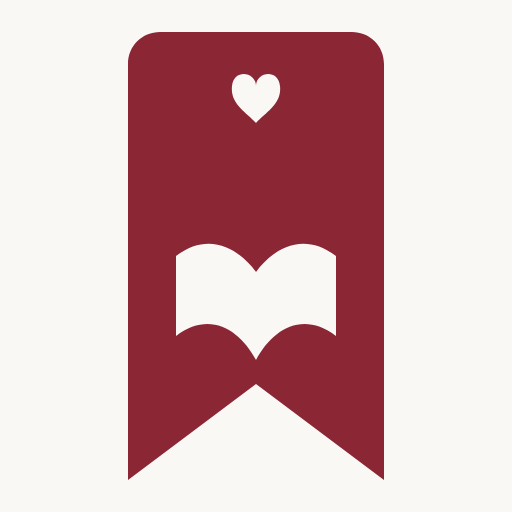
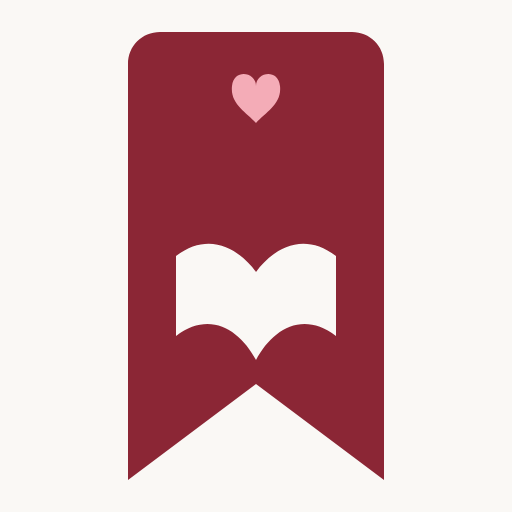
fix(netlify): disable build command in netlify.toml for prebuilt static deployment

Changed region(s): [[0.4375, 0.125, 0.5625, 0.25]]

diff --git a/index.src.html b/index.src.html
@@ -5723,6 +5723,7 @@ svg.constellation-lines { position: absolute; top: 0; left: 0; width: 100%; heig
       --text-dark: #3e2723;
       --burgundy: #8B2635;
       --logo-bg: #FAF8F5;
+      --heart-pink: #F4ACB7;
     }
 
     .splash-container {
@@ -5796,6 +5797,10 @@ svg.constellation-lines { position: absolute; top: 0; left: 0; width: 100%; heig
     .animate-fill .cutout {
       fill: var(--logo-bg);
       stroke: transparent;
+    }
+
+    .animate-fill .cutout.heart-cutout {
+      fill: var(--heart-pink);
     }
 
     /* Scale the logo down slightly for weight and change to a soft drop shadow */
@@ -5897,12 +5902,12 @@ svg.constellation-lines { position: absolute; top: 0; left: 0; width: 100%; heig
     .word-heart-tag .heart {
       font-size: 20px;
       line-height: 1;
-      color: var(--gold);
+      color: var(--heart-pink);
       opacity: 0;
       transform: scale(0.3);
       transition: opacity 0.6s ease-out, transform 0.6s cubic-bezier(0.34, 1.56, 0.64, 1);
       transition-delay: 0.82s;
-      filter: drop-shadow(0 0 5px rgba(197, 155, 39, 0.6));
+      filter: drop-shadow(0 0 6px rgba(244, 172, 183, 0.7));
     }
 
     .animate-text .word-heart-tag .heart {
@@ -5912,8 +5917,8 @@ svg.constellation-lines { position: absolute; top: 0; left: 0; width: 100%; heig
     }
 
     @keyframes heartGlow {
-      0% { transform: scale(1); filter: drop-shadow(0 0 4px rgba(197, 155, 39, 0.4)); }
-      100% { transform: scale(1.16); filter: drop-shadow(0 0 8px rgba(230, 184, 59, 0.8)); }
+      0% { transform: scale(1); filter: drop-shadow(0 0 4px rgba(244, 172, 183, 0.4)); }
+      100% { transform: scale(1.16); filter: drop-shadow(0 0 9px rgba(244, 172, 183, 0.95)); }
     }
 
     /* Subtitle branding */
@@ -6030,6 +6035,12 @@ svg.constellation-lines { position: absolute; top: 0; left: 0; width: 100%; heig
         transition: none !important;
         transition-delay: 0s !important;
       }
+      .splash-static .cutout.heart-cutout {
+        fill: var(--heart-pink) !important;
+      }
+      .splash-static .word-heart-tag .heart {
+        color: var(--heart-pink) !important;
+      }
       .splash-static-loader {
         display: none;
         align-items: center;
@@ -6060,8 +6071,8 @@ svg.constellation-lines { position: absolute; top: 0; left: 0; width: 100%; heig
     <path class="bookmark-fill" d="M 128 64 C 128 46 142 32 160 32 L 352 32 C 370 32 384 46 384 64 L 384 480 L 256 384 L 128 480 Z" />
     <path class="logo-outline trace-only" d="M 256 32 L 160 32 C 142 32 128 46 128 64 L 128 480 L 256 384" />
     <path class="logo-outline trace-only" d="M 256 384 L 384 480 L 384 64 C 384 46 370 32 352 32 L 256 32" />
-    <!-- Heart Punch cutout -->
-    <path class="logo-outline cutout" d="M 256 86 C 256 72, 234 68, 232 86 C 230 104, 246 112, 256 123 C 266 112, 282 104, 280 86 C 278 68, 256 72, 256 86 Z" />
+    <!-- Heart Punch cutout (Pastel Pink) -->
+    <path class="logo-outline cutout heart-cutout" d="M 256 86 C 256 72, 234 68, 232 86 C 230 104, 246 112, 256 123 C 266 112, 282 104, 280 86 C 278 68, 256 72, 256 86 Z" />
     <!-- Open Book cutout -->
     <path class="logo-outline cutout" transform="translate(0, -47)" d="M 176 256 C 210 230 240 250 256 272 C 272 250 302 230 336 256 L 336 336 C 302 310 272 330 256 360 C 240 330 210 310 176 336 Z" />
   </svg>
@@ -6107,7 +6118,7 @@ svg.constellation-lines { position: absolute; top: 0; left: 0; width: 100%; heig
     <a href="javascript:void(0)" class="landing-logo">
       <svg viewBox="128 32 256 448" class="landing-bookmark-icon" width="30" height="42" fill="none" xmlns="http://www.w3.org/2000/svg">
         <path d="M 128 64 C 128 46 142 32 160 32 L 352 32 C 370 32 384 46 384 64 L 384 480 L 256 384 L 128 480 Z" fill="#8B2635" />
-        <path d="M 256 86 C 256 72, 234 68, 232 86 C 230 104, 246 112, 256 123 C 266 112, 282 104, 280 86 C 278 68, 256 72, 256 86 Z" fill="#FAF8F5" />
+        <path d="M 256 86 C 256 72, 234 68, 232 86 C 230 104, 246 112, 256 123 C 266 112, 282 104, 280 86 C 278 68, 256 72, 256 86 Z" fill="#F4ACB7" />
         <path transform="translate(0, -47)" d="M 176 256 C 210 230 240 250 256 272 C 272 250 302 230 336 256 L 336 336 C 302 310 272 330 256 360 C 240 330 210 310 176 336 Z" fill="#FAF8F5" />
       </svg>
       <span>Shelf <em>Life</em></span>
@@ -6127,7 +6138,7 @@ svg.constellation-lines { position: absolute; top: 0; left: 0; width: 100%; heig
       </div>
 
       <h1 class="landing-hook-title" style="font-family:'Vollkorn',Georgia,serif; font-size:clamp(32px, 3.8vw, 48px); line-height:1.14;">
-        Note to shelf:<br><span style="color:var(--love,#8B2635); font-style:italic;">every story you loved deserves a home.</span>
+        Shelf life:<br><span style="color:var(--love,#8B2635); font-style:italic;">every story you loved deserves a home.</span>
       </h1>
 
       <p class="landing-prose-line" style="font-family:'Outfit',-apple-system,sans-serif; font-size:16px; line-height:1.65; color:rgba(43,27,17,0.82); max-width:520px;">
@@ -6278,7 +6289,7 @@ svg.constellation-lines { position: absolute; top: 0; left: 0; width: 100%; heig
         <div class="hero-marginalia-slip" id="heroMarginaliaSlip">
           <div class="marginalia-clip">📎</div>
           <div class="marginalia-header">
-            <span class="marginalia-tag">NOTE TO SHELF</span>
+            <span class="marginalia-tag">SHELF LIFE NOTE</span>
             <span class="marginalia-date">JAN 14</span>
           </div>
           <p class="marginalia-body">“Finished at 2:14 AM. Keep this one on the top shelf forever.”</p>
@@ -6761,7 +6772,7 @@ svg.constellation-lines { position: absolute; top: 0; left: 0; width: 100%; heig
       <div style="display:inline-flex; align-items:center; gap:8px; margin-bottom:12px;">
         <svg viewBox="128 32 256 448" width="22" height="30" fill="none" xmlns="http://www.w3.org/2000/svg">
           <path d="M 128 64 C 128 46 142 32 160 32 L 352 32 C 370 32 384 46 384 64 L 384 480 L 256 384 L 128 480 Z" fill="#8B2635" />
-          <path d="M 256 86 C 256 72, 234 68, 232 86 C 230 104, 246 112, 256 123 C 266 112, 282 104, 280 86 C 278 68, 256 72, 256 86 Z" fill="#FAF8F5" />
+          <path d="M 256 86 C 256 72, 234 68, 232 86 C 230 104, 246 112, 256 123 C 266 112, 282 104, 280 86 C 278 68, 256 72, 256 86 Z" fill="#F4ACB7" />
           <path transform="translate(0, -47)" d="M 176 256 C 210 230 240 250 256 272 C 272 250 302 230 336 256 L 336 336 C 302 310 272 330 256 360 C 240 330 210 310 176 336 Z" fill="#FAF8F5" />
         </svg>
         <span style="font-family:'Playfair Display',Georgia,serif; font-size:20px; font-weight:700; color:var(--wood-dark);">Shelf <em>Life</em></span>
@@ -6825,7 +6836,7 @@ svg.constellation-lines { position: absolute; top: 0; left: 0; width: 100%; heig
 
 <div class="masthead-eyebrow">
 
-<span id="brandTitle">Note to Shelf</span> <span style="color:#8c1a28;">&bull;</span>
+<span id="brandTitle">Shelf Life</span> <span style="color:#F4ACB7; font-size:12px; vertical-align:middle; margin:0 2px;">♥</span>
 
           <div class="year-selector">
 
@@ -7447,11 +7458,11 @@ svg.constellation-lines { position: absolute; top: 0; left: 0; width: 100%; heig
     <div style="background: var(--paper, #ffffff); border-radius: 16px; padding: 30px; max-width: 400px; width: 100%; box-shadow: 0 20px 50px rgba(0,0,0,0.2); position: relative;">
         <button onclick="closeInviteModal()" style="position: absolute; top: 15px; right: 15px; background: none; border: none; font-size: 1.5rem; cursor: pointer; color: var(--wood-mid, #666666);">✕</button>
         <h3 style="margin: 0 0 5px 0; font-family: 'Playfair Display', Georgia, serif; font-size: 1.5rem; color: var(--wood-dark, #2C2C2C); text-align: center;">Invite a Friend</h3>
-        <p style="margin: 0 0 25px 0; color: var(--wood-mid, #666666); font-size: 0.95rem; text-align: center;">Choose how you want to share Note to Shelf.</p>
+        <p style="margin: 0 0 25px 0; color: var(--wood-mid, #666666); font-size: 0.95rem; text-align: center;">Choose how you want to share Shelf Life.</p>
         
         <div style="display: flex; flex-direction: column; gap: 12px;">
-            <button class="btn-burgundy" style="width: 100%; padding: 14px; border-radius: 8px; font-size: 0.95rem; display: flex; align-items: center; justify-content: flex-start; text-align: left;" onclick="closeInviteModal(); showToast('Note to Shelf invite link copied!');">
-                <span style="margin-right: 12px; font-size: 1.2rem;">📧</span> Invite to Note to Shelf
+            <button class="btn-burgundy" style="width: 100%; padding: 14px; border-radius: 8px; font-size: 0.95rem; display: flex; align-items: center; justify-content: flex-start; text-align: left;" onclick="closeInviteModal(); showToast('Shelf Life invite link copied!');">
+                <span style="margin-right: 12px; font-size: 1.2rem;">📧</span> Invite to Shelf Life
             </button>
             <button class="btn-outline" style="width: 100%; padding: 14px; border-radius: 8px; font-size: 0.95rem; display: flex; align-items: center; justify-content: flex-start; text-align: left; background: var(--wall, #FAF8F5);" onclick="closeInviteModal(); showToast('Book Club invite link copied!');">
                 <span style="margin-right: 12px; font-size: 1.2rem;">📖</span> Invite to your Book Club
@@ -8330,7 +8341,7 @@ window.addEventListener('DOMContentLoaded', () => {
 
 <input class="form-input" id="displayNameInput" type="text" maxlength="60" placeholder="How your name appears on shared shelves">
 
-<div class="form-hint">Shown publicly as <em>Name • Note to Shelf</em> when your shelf is shared.</div>
+<div class="form-hint">Shown publicly as <em>Name • Shelf Life</em> when your shelf is shared.</div>
 
 </div>
 
@@ -8362,7 +8373,7 @@ window.addEventListener('DOMContentLoaded', () => {
 
 <label class="quarter-toggle" style="margin-left:0;"><input type="checkbox" id="profilePublicToggle" checked=""><div class="toggle-track"></div>Make my profile public</label>
 
-<div class="form-hint">When public, other Note to Shelf readers can discover you as a <strong>Similar Reader</strong> based on shared genres, authors &amp; moods. Turn this off to stay private.</div>
+<div class="form-hint">When public, other Shelf Life readers can discover you as a <strong>Similar Reader</strong> based on shared genres, authors &amp; moods. Turn this off to stay private.</div>
 
 </div>
 
@@ -8391,7 +8402,7 @@ window.addEventListener('DOMContentLoaded', () => {
     <button class="modal-close" onclick="App.closeModal('welcomeExperienceModal')" aria-label="Close">✖</button>
     <div style="font-size:32px;margin-bottom:6px;">🛋 📚</div>
     <div class="modal-title" style="font-size:22px;margin-bottom:4px;">Choose Your Shelf Experience</div>
-    <p style="font-size:13px;color:var(--wood-light);margin-bottom:20px;line-height:1.5;">How would you like Note to Shelf to feel? You can change this anytime with 1 tap.</p>
+    <p style="font-size:13px;color:var(--wood-light);margin-bottom:20px;line-height:1.5;">How would you like Shelf Life to feel? You can change this anytime with 1 tap.</p>
     
     <div style="display:grid;grid-template-columns:repeat(auto-fit,minmax(210px,1fr));gap:14px;text-align:left;">
       <!-- Cozy Mode Card -->

diff --git a/src/core/app.js b/src/core/app.js
@@ -468,14 +468,14 @@ export const App = {
     const brandEl = document.getElementById('brandTitle');
     if (!brandEl) return;
 
-    brandEl.textContent = 'Note to Shelf';
+    brandEl.textContent = 'Shelf Life';
     if (this.isReadOnly && !this.isDemoMode) {
       const sharedName = this.ownerDisplayName || this.displayName || '';
-      document.title = sharedName ? `Note to Shelf • ${sharedName}'s Shelf` : 'Note to Shelf';
+      document.title = sharedName ? `Shelf Life • ${sharedName}'s Shelf` : 'Shelf Life';
     } else if (this.displayName) {
-      document.title = `Note to Shelf • ${this.displayName}`;
+      document.title = `Shelf Life • ${this.displayName}`;
     } else {
-      document.title = 'Note to Shelf';
+      document.title = 'Shelf Life';
     }
   },
 
